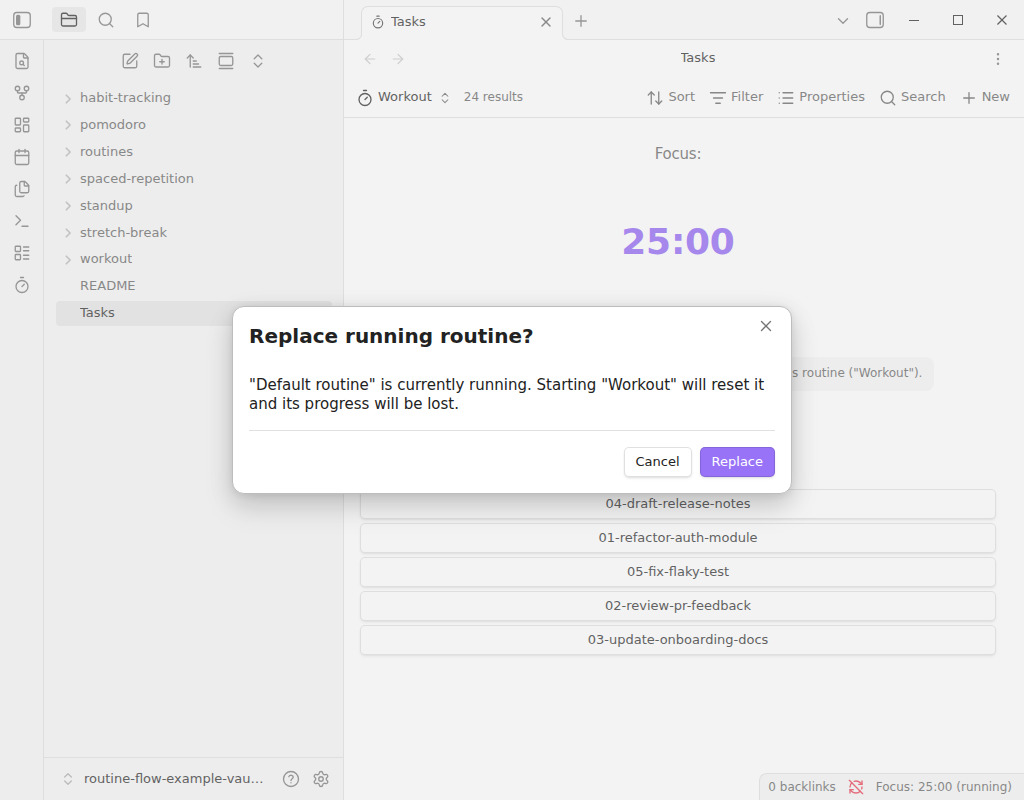
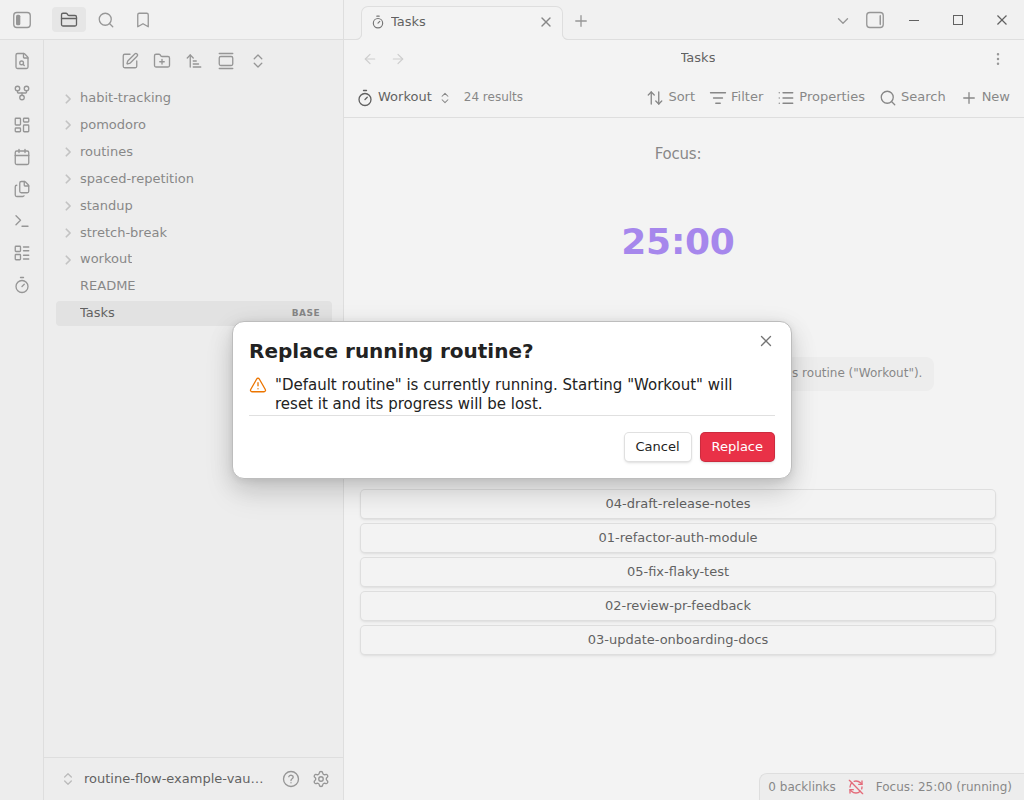
feat: style RoutineReplaceModal per approved mockup (flow-gu1.62) (#142)
Adds a warning-triangle icon and switches "Replace" from the neutral
setCta() accent to setWarning()'s destructive red, matching Obsidian's
own delete-confirmation styling per the approved Stitch mockup
(flow-gu1.19.11). Adds the routine-replace-modal scoped class DESIGN.md
flagged as missing and marks surface #7 resolved in its theming note.

Changed region(s): [[0.2188, 0.375, 0.7812, 0.5312], [0.2188, 0.5312, 0.7812, 0.625]]

diff --git a/src/views/routine-replace-modal.ts b/src/views/routine-replace-modal.ts
@@ -1,4 +1,4 @@
-import { Modal, Setting } from 'obsidian'
+import { Modal, Setting, setIcon } from 'obsidian'
 import type { App } from 'obsidian'
 
 export type RoutineReplaceResult = 'confirmed' | 'cancelled'
@@ -26,13 +26,17 @@ export class RoutineReplaceModal extends Modal {
 
   onOpen(): void {
     this.setTitle('Replace running routine?')
-    this.contentEl.createEl('p', {
+    this.modalEl.addClass('routine-replace-modal')
+
+    const warning = this.contentEl.createDiv({ cls: 'routine-replace-warning' })
+    this.renderWarningIcon(warning)
+    warning.createEl('p', {
       text: `"${this.currentRoutineName}" is currently running. Starting "${this.nextRoutineName}" will reset it and its progress will be lost.`,
     })
 
     new Setting(this.contentEl)
       .addButton(button => button.setButtonText('Cancel').onClick(() => this.close()))
-      .addButton(button => button.setButtonText('Replace').setCta().onClick(() => this.confirm()))
+      .addButton(button => button.setButtonText('Replace').setWarning().onClick(() => this.confirm()))
   }
 
   onClose(): void {
@@ -46,5 +50,20 @@ export class RoutineReplaceModal extends Modal {
     this.confirmed = true
     this.resolveResult('confirmed')
     this.close()
+  }
+
+  /**
+   * Lucide renamed alert-triangle -> triangle-alert; setIcon no-ops on an unknown name, so listing
+   * both absorbs the rename across Obsidian versions (see DESIGN.md iconography; timer-view.ts's
+   * renderStateIcon does the same for its own state icons).
+   */
+  private renderWarningIcon(parent: HTMLElement): void {
+    const iconEl = parent.createSpan({ cls: 'routine-state-icon' })
+    for (const name of ['triangle-alert', 'alert-triangle']) {
+      setIcon(iconEl, name)
+      if (iconEl.childElementCount > 0) {
+        return
+      }
+    }
   }
 }

diff --git a/styles.css b/styles.css
@@ -269,3 +269,19 @@
   gap: var(--size-4-2);
   margin-top: var(--size-4-4);
 }
+
+/* ---- RoutineReplaceModal (surface #7) -------------------------------------------------------- */
+
+.routine-replace-warning {
+  display: flex;
+  align-items: flex-start;
+  gap: var(--size-4-2);
+}
+
+.routine-replace-warning .routine-state-icon {
+  color: var(--text-warning);
+}
+
+.routine-replace-warning p {
+  margin: 0;
+}

diff --git a/openspec/changes/design-foundations/DESIGN.md b/openspec/changes/design-foundations/DESIGN.md
@@ -106,8 +106,9 @@ This constrains implementation, not just color choice:
 - One stable, documented CSS class namespace, applied consistently as a snippet target.
   `timer-view.ts` carries the `routine-*` prefix (`routine-timer-view`, `-timer-panel`, `-controls`, `-queue`, etc.).
   **Resolved for surface #6** (flow-gu1.19.18): `WriteBackModal` now adds `routine-write-back-modal` via `modalEl.addClass(...)`.
-  `RoutineReplaceModal` (#7) and `RoutineFlowSettingTab` (#8) still add **no plugin-scoped class at all** — they render straight onto `contentEl`/`containerEl`, so a user's snippet could only reach them via Obsidian's generic `.modal`/`.setting-item` selectors, which hit every plugin's modals and settings tabs indiscriminately, not just this one.
-  Adding a root-level scoped class to each (e.g. via `modalEl.addClass(...)`/`containerEl.addClass(...)`) is a prerequisite for snippet-targeting those two remaining surfaces, not something that already exists — treat it as part of each surface's implementation pass (flow-gu1.62 for #7, flow-gu1.58 for #8), not a retrofit deferred to flow-q2p.
+  **Resolved for surface #7** (flow-gu1.62): `RoutineReplaceModal` now adds `routine-replace-modal` via `modalEl.addClass(...)`.
+  `RoutineFlowSettingTab` (#8) still adds **no plugin-scoped class at all** — it renders straight onto `containerEl`, so a user's snippet could only reach it via Obsidian's generic `.setting-item` selector, which hits every plugin's settings tab indiscriminately, not just this one.
+  Adding a root-level scoped class (e.g. via `containerEl.addClass(...)`) is a prerequisite for snippet-targeting that remaining surface, not something that already exists — treat it as part of its implementation pass (flow-gu1.58), not a retrofit deferred to flow-q2p.
 - No JS-driven inline `style=` attributes for anything a snippet should be able to target — route all visual state through class toggles.
 - Any hardcoded fallback (e.g. for the rare theme that doesn't define `--color-orange`) must itself be overridable the same way: a plugin-scoped custom property, e.g. `--routine-flow-accent-paused: var(--color-orange, var(--text-warning));`, never an unconditional literal.
 - flow-q2p ("Custom CSS stylesheet support for user theming") is where an explicit override mechanism gets built.
